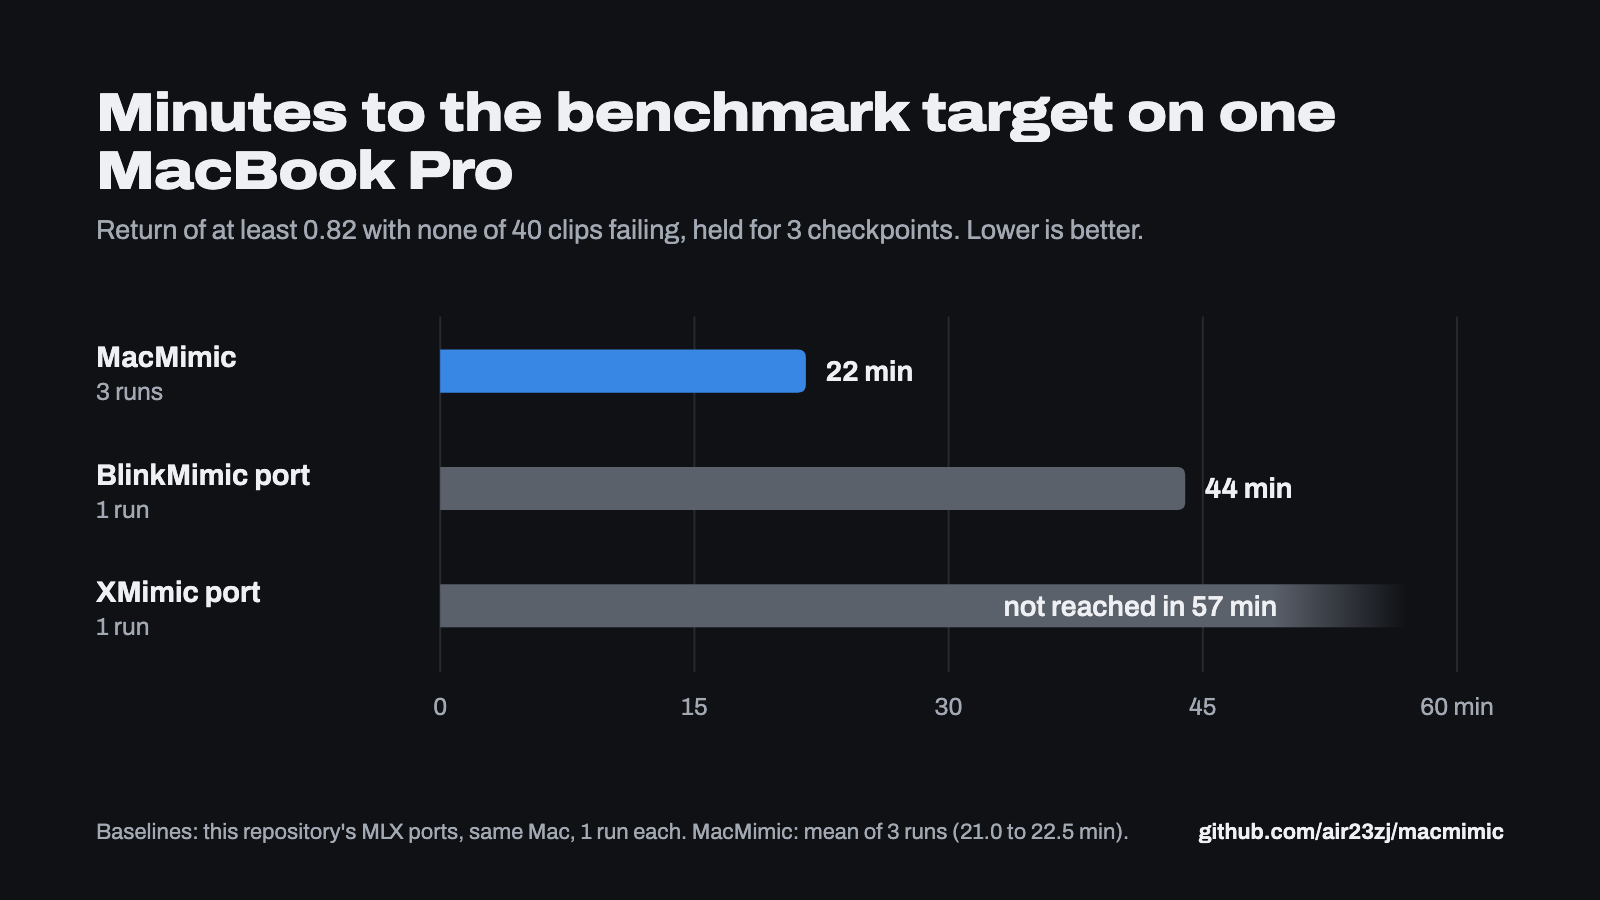
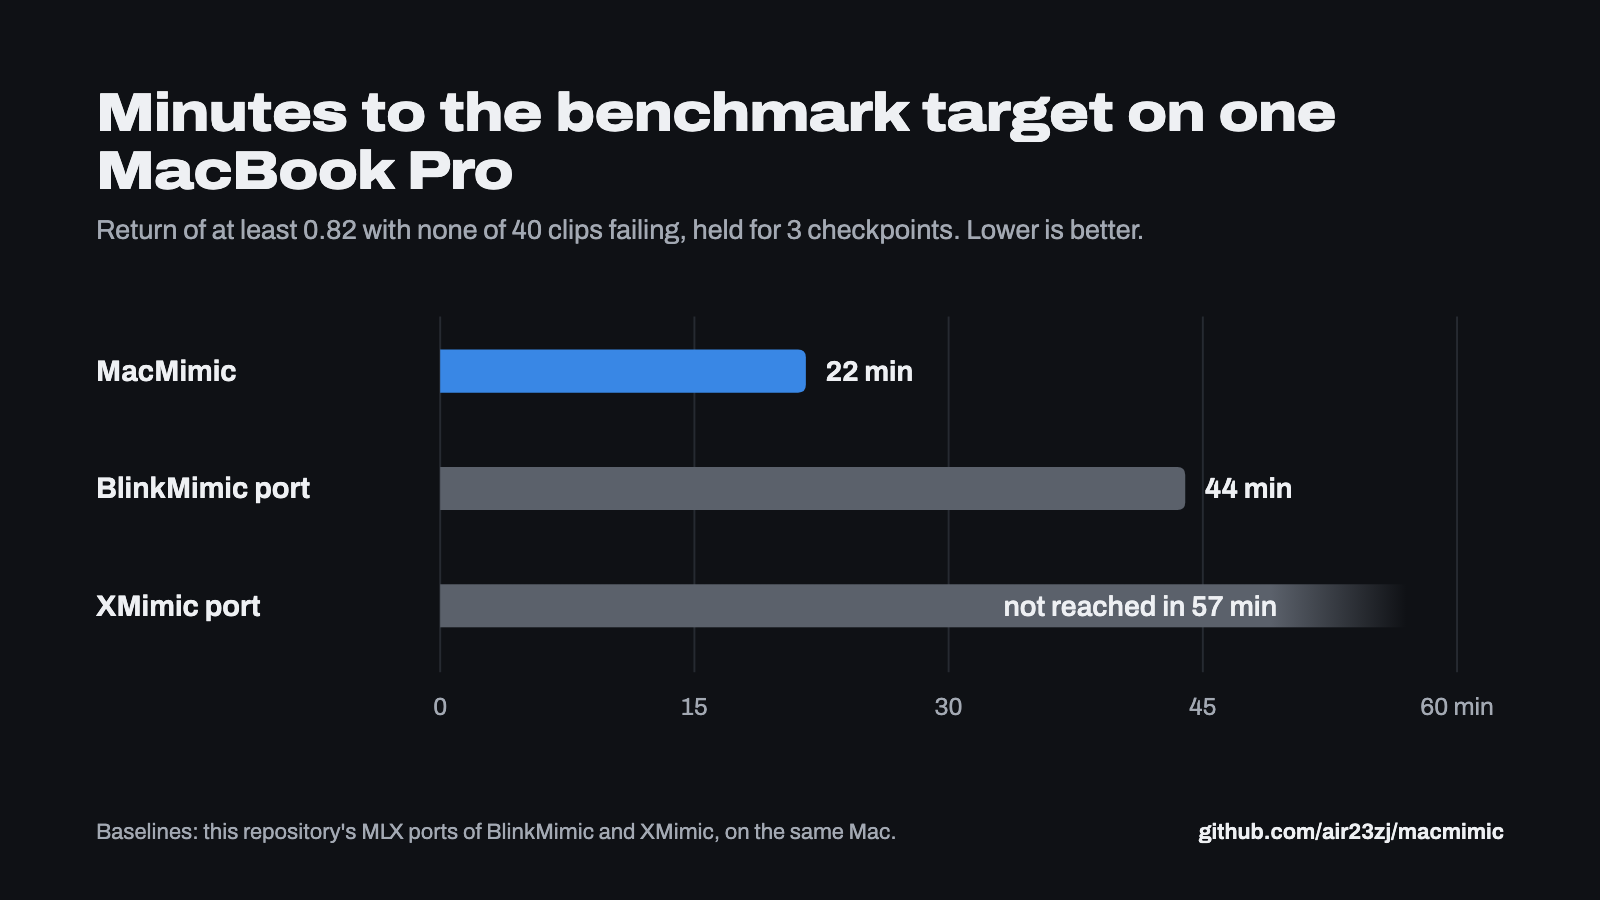
Project page and README: clearer lineage, defined terms, concrete numbers
- MacMimic's lineage stated once, the same way everywhere: BlinkMimic's algorithm
  (SuperMimic's method, refined), run with XMimic's overlap of simulator and
  learner, tuned for a Mac
- the target, score, failure, checkpoints and probes defined in plain terms;
  how-it-works steps with concrete numbers (4,096 robots, 32 steps = 0.64 s)
- what-made-it-fast grouped by version: 44 to 29 min (macmimic_v1), 29 to 22 min
- MuJoCo (CPU) and MLX (GPU) credited separately; run counts removed from the
  time-to-target chart (details stay in the tooltips)

Claude-Session: https://claude.ai/code/session_01PefSPw4smfJsvgtYR2cAW9

diff --git a/docs/index.html b/docs/index.html
@@ -159,6 +159,7 @@
   th { font-weight: 650; font-size: 14.5px; color: var(--ink-2); }
   td:first-child { font-weight: 600; width: 44%; }
   td code, p code, li code { font-size: 0.9em; }
+  tr.group th { padding-top: 26px; color: var(--ink); font-size: 16px; font-weight: 750; }
 
   /* notes */
   .notes { margin: 0; padding-left: 1.1em; max-width: var(--measure); }
@@ -215,9 +216,9 @@
     <div class="hero">
       <div>
         <h1>Teach a simulated humanoid 40 motions in 22&nbsp;minutes, on a MacBook.</h1>
-        <p class="lede">MacMimic trains a whole-body motion-tracking policy for the Unitree G1 entirely on Apple silicon:
-          MuJoCo simulates 4,096 robots on the CPU while MLX trains a differentiable world model and the policy on the GPU.
-          No CUDA, no cloud, MIT licensed.</p>
+        <p class="lede">A simulated Unitree G1 humanoid learns to copy 40 human motion-capture clips, from walking and sprinting to
+          dancing, getting up off the floor and a cartwheel, on a MacBook Pro (M4 Pro). MuJoCo simulates 4,096 robots on the CPU while
+          MLX trains the networks on the GPU. No CUDA, no cloud, MIT licensed.</p>
         <div class="actions">
           <a class="btn primary" href="https://github.com/air23zj/macmimic">View the code</a>
           <a class="btn" href="#quickstart">Train it yourself</a>
@@ -236,8 +237,11 @@
 
     <section aria-labelledby="race">
       <h2 id="race">Time to the benchmark target</h2>
-      <p class="intro">The target: an average tracking return of at least 0.82 with none of the 40 clips failing, held
-        for three checkpoints in a row. All runs used the same MacBook and the same simulator, rewards and evaluation.</p>
+      <p class="intro">The target: each of the 40 clips is played from its first frame to its last, and the robot must
+        score at least 0.82 on average (1.0 is a perfect copy of the motion) without failing any clip (failing means
+        falling or straying from the motion: the pelvis more than 25 cm above or below the reference's, or the torso
+        tilted far from it). This has to hold at three checkpoints in a row, 100 training iterations apart; the time
+        shown is the first of the three. All runs used the same MacBook and the same simulator, rewards and evaluation.</p>
       <figure>
         <div class="screen chart" id="chart">
           <svg class="wide" viewBox="0 0 720 236" role="img" aria-labelledby="chart-title chart-desc">
@@ -268,22 +272,19 @@
 
             <g class="row" tabindex="0" data-tip="&lt;b&gt;MacMimic&lt;/b&gt;, this repository&lt;br&gt;3 runs: 21.0, 21.3 and 22.5 min (iteration 1,400 to 1,500)&lt;br&gt;1.09 to 1.11 iterations per second">
               <rect class="hit" x="0" y="20" width="720" height="44" fill="transparent" rx="6"/>
-              <text class="name" x="0" y="40">MacMimic</text>
-              <text class="sub" x="0" y="57">3 runs</text>
+              <text class="name" x="0" y="47">MacMimic</text>
               <path d="M176 31 H359 Q363 31 363 35 V49 Q363 53 359 53 H176 Z" fill="#3987e5"/>
               <text class="val" x="373" y="47">22 min</text>
             </g>
             <g class="row" tabindex="0" data-tip="&lt;b&gt;BlinkMimic port&lt;/b&gt;, the same algorithm in this repository&lt;br&gt;1 run: 44.0 min (iteration 1,600)&lt;br&gt;0.61 iterations per second">
               <rect class="hit" x="0" y="80" width="720" height="44" fill="transparent" rx="6"/>
-              <text class="name" x="0" y="100">BlinkMimic port</text>
-              <text class="sub" x="0" y="117">1 run</text>
+              <text class="name" x="0" y="107">BlinkMimic port</text>
               <path d="M176 91 H553 Q557 91 557 95 V109 Q557 113 553 113 H176 Z" fill="#5b616b"/>
               <text class="val" x="567" y="107">44 min</text>
             </g>
             <g class="row" tabindex="0" data-tip="&lt;b&gt;XMimic port&lt;/b&gt;, actor and learner split on one Mac&lt;br&gt;1 run: target not reached by 57 min (first clean checkpoint at 54.2 min)&lt;br&gt;0.65 iterations per second">
               <rect class="hit" x="0" y="140" width="720" height="44" fill="transparent" rx="6"/>
-              <text class="name" x="0" y="160">XMimic port</text>
-              <text class="sub" x="0" y="177">1 run</text>
+              <text class="name" x="0" y="167">XMimic port</text>
               <rect x="176" y="151" width="494" height="22" fill="url(#fade)"/>
               <text class="val in" x="604" y="167" text-anchor="end">not reached in 57 min</text>
             </g>
@@ -315,19 +316,19 @@
             </defs>
             <g class="row" tabindex="0" data-tip="&lt;b&gt;MacMimic&lt;/b&gt;, this repository&lt;br&gt;3 runs: 21.0, 21.3 and 22.5 min (iteration 1,400 to 1,500)&lt;br&gt;1.09 to 1.11 iterations per second">
               <rect class="hit" x="-4" y="0" width="344" height="58" fill="transparent" rx="6"/>
-              <text class="name" x="0" y="17">MacMimic <tspan class="sub">3 runs</tspan></text>
+              <text class="name" x="0" y="17">MacMimic</text>
               <path d="M0 28 H104 Q108 28 108 32 V44 Q108 48 104 48 H0 Z" fill="#3987e5"/>
               <text class="val" x="116" y="43">22 min</text>
             </g>
             <g class="row" tabindex="0" data-tip="&lt;b&gt;BlinkMimic port&lt;/b&gt;, the same algorithm in this repository&lt;br&gt;1 run: 44.0 min (iteration 1,600)&lt;br&gt;0.61 iterations per second">
               <rect class="hit" x="-4" y="62" width="344" height="58" fill="transparent" rx="6"/>
-              <text class="name" x="0" y="79">BlinkMimic port <tspan class="sub">1 run</tspan></text>
+              <text class="name" x="0" y="79">BlinkMimic port</text>
               <path d="M0 90 H216 Q220 90 220 94 V106 Q220 110 216 110 H0 Z" fill="#5b616b"/>
               <text class="val" x="228" y="105">44 min</text>
             </g>
             <g class="row" tabindex="0" data-tip="&lt;b&gt;XMimic port&lt;/b&gt;, actor and learner split on one Mac&lt;br&gt;1 run: target not reached by 57 min (first clean checkpoint at 54.2 min)&lt;br&gt;0.65 iterations per second">
               <rect class="hit" x="-4" y="124" width="344" height="58" fill="transparent" rx="6"/>
-              <text class="name" x="0" y="141">XMimic port <tspan class="sub">1 run</tspan></text>
+              <text class="name" x="0" y="141">XMimic port</text>
               <rect x="0" y="152" width="285" height="20" fill="url(#fade-n)"/>
               <text class="val in" x="248" y="167" text-anchor="end">not reached in 57 min</text>
             </g>
@@ -343,45 +344,52 @@
 
     <section aria-labelledby="how">
       <h2 id="how">How it works</h2>
-      <p class="intro">The method is SuperMimic's, as refined by BlinkMimic: learn the physics, then learn the motion by
-        differentiating through the learned physics. Every iteration runs this loop.</p>
+      <p class="intro">MacMimic is BlinkMimic's algorithm (SuperMimic's method, refined), run with XMimic's overlap of
+        simulator and learner, and tuned for a Mac. The idea: first learn a model of the robot's physics, then improve the
+        policy by differentiating through that model. One training iteration, about 0.9 seconds, runs these three steps:</p>
       <ol class="steps">
         <li>
           <h3>Simulate</h3>
-          <p>4,096 copies of the G1 run in MuJoCo across the CPU cores, each tracking a stretch of a motion clip with the
-            current policy.</p>
+          <p>4,096 copies of the G1 run in MuJoCo on the CPU cores, each following a stretch of one clip with the current
+            policy. Every step is stored.</p>
         </li>
         <li>
           <h3>Learn the physics</h3>
-          <p>A neural world model learns to predict the robot's next state from the simulator's data, on the GPU with MLX.</p>
+          <p>A neural network, the world model, learns to predict the robot's next state from its current state and motor
+            commands, trained on the stored steps on the GPU with MLX.</p>
         </li>
         <li>
           <h3>Learn the motion</h3>
-          <p>The policy improves by backpropagating through 32 imagined steps of the world model, with a critic for the
-            longer term.</p>
+          <p>The policy plays 32 steps (0.64 s) ahead inside the world model and is improved by backpropagating the tracking
+            error through them; a second network, the critic, estimates how the motion goes on after that.</p>
         </li>
       </ol>
-      <p class="loopnote">The CPU and the GPU work at the same time, on separate threads, sharing the Mac's unified memory.</p>
+      <p class="loopnote">The CPU and the GPU work at the same time, on separate threads, sharing the Mac's unified memory.
+        Every 60 iterations, a probe also plays all 40 clips with the current policy, in 12-second windows, to find where
+        it fails; afterwards, 30% of the robots' restarts begin just before those spots.</p>
     </section>
 
     <section aria-labelledby="fast">
       <h2 id="fast">What made it fast</h2>
-      <p class="intro">MacMimic is the XMimic recipe retuned for the time to the target on one Mac. The changes that held
-        up across runs, the largest first:</p>
+      <p class="intro">From the BlinkMimic port's 44 minutes to 29 with the first version, then to 22. The changes that held
+        up across runs:</p>
       <div class="tablewrap">
         <table>
           <thead><tr><th scope="col">Change</th><th scope="col">Effect</th></tr></thead>
           <tbody>
-            <tr><td>The world model trained at 8 times the step size</td><td>it learns the robot's physics faster; failing clips are cleared about 300 iterations earlier, at no extra cost</td></tr>
-            <tr><td>3 world-model updates per iteration instead of 5</td><td>enough at that step size: 19% less time per iteration</td></tr>
-            <tr><td>From iteration 400, a larger policy batch (1,280), with 10% of the imagined rollouts started where the probes find failures</td><td>uses the GPU while the CPU is busy with the probes; the hardest clip, a cartwheel, is learned earlier</td></tr>
-            <tr><td>Simulator and learner on separate threads, bf16 where this GPU runs it faster</td><td>0.61 to 0.65&ndash;0.76 iterations per second for the same algorithm</td></tr>
-            <tr><td>A smaller policy batch than BlinkMimic's 2,048: 1,024 samples, 1,280 from iteration 400</td><td>much less time per iteration for some more iterations: faster overall</td></tr>
-            <tr><td>Policy step-size decay from iteration 800 instead of 1,400</td><td>the return rises about 100 iterations earlier</td></tr>
-            <tr><td>Evaluation probes from iteration 400, every 60, on a worker thread</td><td>failing clips are found and practised earlier, without stalling the GPU</td></tr>
-            <tr><td>Rotation math unrolled into fusable operations</td><td>forward kinematics and reward 5&ndash;8 times faster in isolation</td></tr>
-            <tr><td>A faster-moving policy average (0.99)</td><td>fewer clips failing late in training</td></tr>
-            <tr><td>Next batches gathered while the GPU is busy; LayerNorm on bf16 activations</td><td>2.5% and about 3% more iterations per second</td></tr>
+            <tr class="group"><th colspan="2" scope="colgroup">44 to 29 minutes: the first version (<code>--preset macmimic_v1</code>)</th></tr>
+            <tr><td>Simulator and learner run at the same time on separate threads (XMimic's idea); bf16 matrix math where this GPU runs it faster</td><td>0.61 to 0.65&ndash;0.76 iterations per second for the same algorithm</td></tr>
+            <tr><td>Policy batch of 1,024 samples instead of 2,048</td><td>38% less time per iteration for about 200 more iterations: faster overall</td></tr>
+            <tr><td>Probes from iteration 400 instead of 1,000, every 60 iterations instead of 125, on a worker thread</td><td>failing clips are found and practised earlier, without stalling the GPU</td></tr>
+            <tr><td>Learning-rate decay from iteration 1,100 instead of 1,400</td><td>recovers about 100 iterations of the smaller batch's deficit</td></tr>
+            <tr><td>Policy averaged over the last ~100 iterations (0.99) instead of ~200</td><td>fewer clips failing late in training</td></tr>
+            <tr><td>Rotation math unrolled into fusable operations; next batches gathered while the GPU is busy</td><td>a policy update about 4% faster, and 2.5% more iterations per second</td></tr>
+            <tr class="group"><th colspan="2" scope="colgroup">29 to 22 minutes: MacMimic (<code>--preset macmimic</code>)</th></tr>
+            <tr><td>The world model trained at 8 times the learning rate</td><td>it learns the physics faster; failing clips are cleared about 300 iterations earlier, at no extra cost</td></tr>
+            <tr><td>3 world-model updates per iteration instead of 5</td><td>enough at that learning rate: 19% less time per iteration</td></tr>
+            <tr><td>From iteration 400, a policy batch of 1,280, with 10% of the imagined rollouts started where the probes found failures</td><td>uses the GPU while the CPU runs the probes; the hardest clip, a cartwheel, is learned earlier</td></tr>
+            <tr><td>Learning-rate decay from iteration 800 instead of 1,100</td><td>the score rises about 100 iterations earlier</td></tr>
+            <tr><td>LayerNorm on bf16 activations</td><td>about 3% more iterations per second</td></tr>
           </tbody>
         </table>
       </div>
@@ -397,9 +405,9 @@
         <li>MacMimic's time is the mean of three runs with different seeds (21.0 to 22.5 minutes; the slowest alone is 1.95
           times faster than the BlinkMimic port). The baselines are one run each. Between seeds, the iteration at which the
           target is reached varies by about 100.</li>
-        <li>The target is a threshold, and a run that has just crossed it tracks a little less precisely than one that crossed
-          it later. At its target MacMimic tracks with a return of 0.822 and 4.4 cm average body position error, BlinkMimic
-          with 0.847 and 3.9 cm; the time to equal tracking quality was not measured for this version.</li>
+        <li>The target is a threshold, not equal quality. When each reaches it, BlinkMimic tracks a little more precisely:
+          a score of 0.847 and 3.9 cm average body position error, against 0.822 and 4.4 cm for MacMimic. How long MacMimic
+          needs to match BlinkMimic's precision was not measured.</li>
         <li>Everything here is simulation. The policy has not been run on a physical robot.</li>
       </ul>
     </section>
@@ -416,7 +424,8 @@ bash scripts/train.sh macmimic logs/macmimic_s0 --seed 0</code></pre>
         <div>
           <p>You need a Mac with Apple silicon, <a href="https://docs.astral.sh/uv/">uv</a> and curl. The full 2,000
             iterations take about 30 minutes on an M4 Pro; the target is usually reached by iteration 1,400&ndash;1,500. Settings that
-            only affect speed and memory are chosen automatically for the Mac you run on.</p>
+            only affect speed and memory (simulator threads, bf16 or fp32, memory limits) are chosen automatically for the
+            Mac you run on.</p>
           <p>The same repository trains SuperMimic, BlinkMimic and XMimic (<code>--preset</code>), evaluates checkpoints and
             renders videos like the one above.</p>
         </div>
@@ -428,9 +437,10 @@ bash scripts/train.sh macmimic logs/macmimic_s0 --seed 0</code></pre>
       <ul class="credits">
         <li><a href="https://github.com/fuyichen0725/blinkmimic">BlinkMimic</a> <span>the algorithm and presets ported here (MIT)</span></li>
         <li><a href="https://github.com/HybridRobotics/supermimic">SuperMimic</a> <span>the method, Liao et al. 2026 (Apache-2.0)</span></li>
-        <li><a href="https://github.com/nico-bohlinger/xmimic">XMimic</a> <span>the actor and learner split</span></li>
+        <li><a href="https://github.com/nico-bohlinger/xmimic">XMimic</a> <span>running the simulator and the learner at the same time</span></li>
         <li><a href="https://github.com/zita-ch/supermimic_vibed">supermimic_vibed</a> and <a href="https://github.com/Huy-Quang-Dao/instantTrack">InstantTrack</a> <span>code BlinkMimic builds on (MIT)</span></li>
-        <li><a href="https://github.com/ml-explore/mlx">MLX</a> and <a href="https://mujoco.org">MuJoCo</a> <span>learning on the GPU, simulation on the CPU</span></li>
+        <li><a href="https://mujoco.org">MuJoCo</a> <span>physics simulation, on the CPU</span></li>
+        <li><a href="https://github.com/ml-explore/mlx">MLX</a> <span>the world model, policy and critic, trained on the GPU</span></li>
         <li>LAFAN1 by Ubisoft La Forge, G1 by Unitree <span>motions (CC BY-NC-ND 4.0) and robot model (BSD-3-Clause)</span></li>
       </ul>
     </section>

diff --git a/README.md b/README.md
@@ -6,6 +6,9 @@
 port on the same Mac.** MacMimic trains whole-body motion tracking end to end on Apple silicon: MuJoCo simulates 4,096
 robots on the CPU while MLX trains a differentiable world model and the policy on the GPU. No CUDA, no PyTorch, no cloud.
 
+MacMimic is BlinkMimic's algorithm (SuperMimic's method, refined), run with XMimic's overlap of simulator and learner,
+and tuned for a Mac.
+
 [Project page](https://air23zj.github.io/macmimic/) · [Results](RESULTS.md) ·
 [What worked and what didn't](docs/macmimic_hillclimb.md)
 
@@ -44,9 +47,9 @@ uv run python tools/time_to_target.py logs/macmimic_s0
 
 ## What is in this repository
 
-MacMimic started as a port of [BlinkMimic](https://github.com/fuyichen0725/blinkmimic) (which contains a faithful
-SuperMimic baseline) from mjlab / MuJoCo Warp / PyTorch + CUDA to Apple silicon. All four presets share the simulator,
-MDP, reward and evaluator, as upstream:
+The code started as a port of [BlinkMimic](https://github.com/fuyichen0725/blinkmimic) (which also contains a faithful
+SuperMimic baseline) from mjlab / MuJoCo Warp / PyTorch + CUDA to Apple silicon. All presets share the simulator, MDP,
+reward and evaluator, as upstream:
 
 | upstream (RTX 4090) | here (M-series Mac) |
 |---|---|
